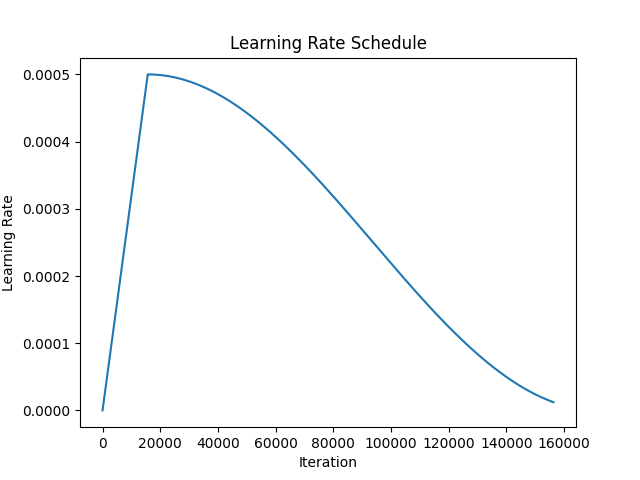
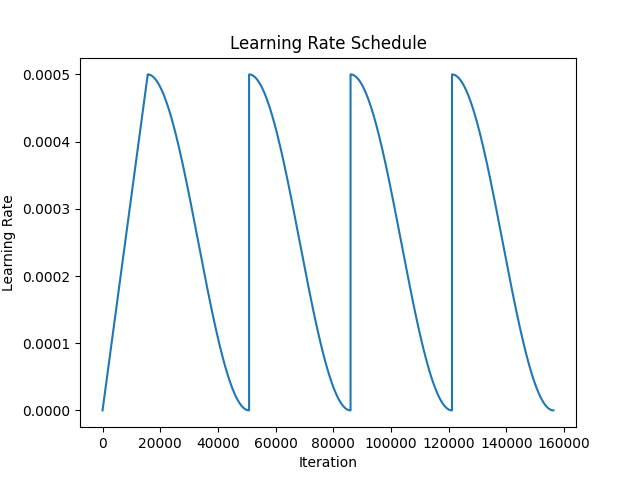
.

diff --git a/FGVC-HERBS/utils/lr_schedule.py b/FGVC-HERBS/utils/lr_schedule.py
@@ -13,8 +13,9 @@ def cosine_decay(args, batchs: int, result_dir, decay_type: int = 1):
                              math.cos(math.pi * t / total_batchs)) for t in iters])
     elif decay_type == 2:
         # Cyclic cosine decay
-        cycle_length = iters // 4  # You can adjust this value based on your preference
-        schedule = np.array([0.5 * (args.max_lr - 1e-12) * (1 + np.cos(math.pi * (t % cycle_length) / cycle_length)) for t in iters])
+        cycle_length = int( len(iters) / 4 ) # You can adjust this value based on your preference
+        print("cycle_length: " + str(cycle_length))
+        schedule = np.array([0.5 * (args.max_lr - 1e-12) * (1 + math.cos(math.pi * (t % cycle_length) / cycle_length)) for t in iters])
     else:
         raise ValueError("Not support this deccay type")
     
@@ -27,7 +28,7 @@ def cosine_decay(args, batchs: int, result_dir, decay_type: int = 1):
     schedule = np.concatenate((warmup_lr_schedule, schedule))
 
     plot_schedule(schedule, result_dir)
-
+    print("done graph")
     return schedule
 
 def exponential_decay(args, batchs: int, result_dir):
